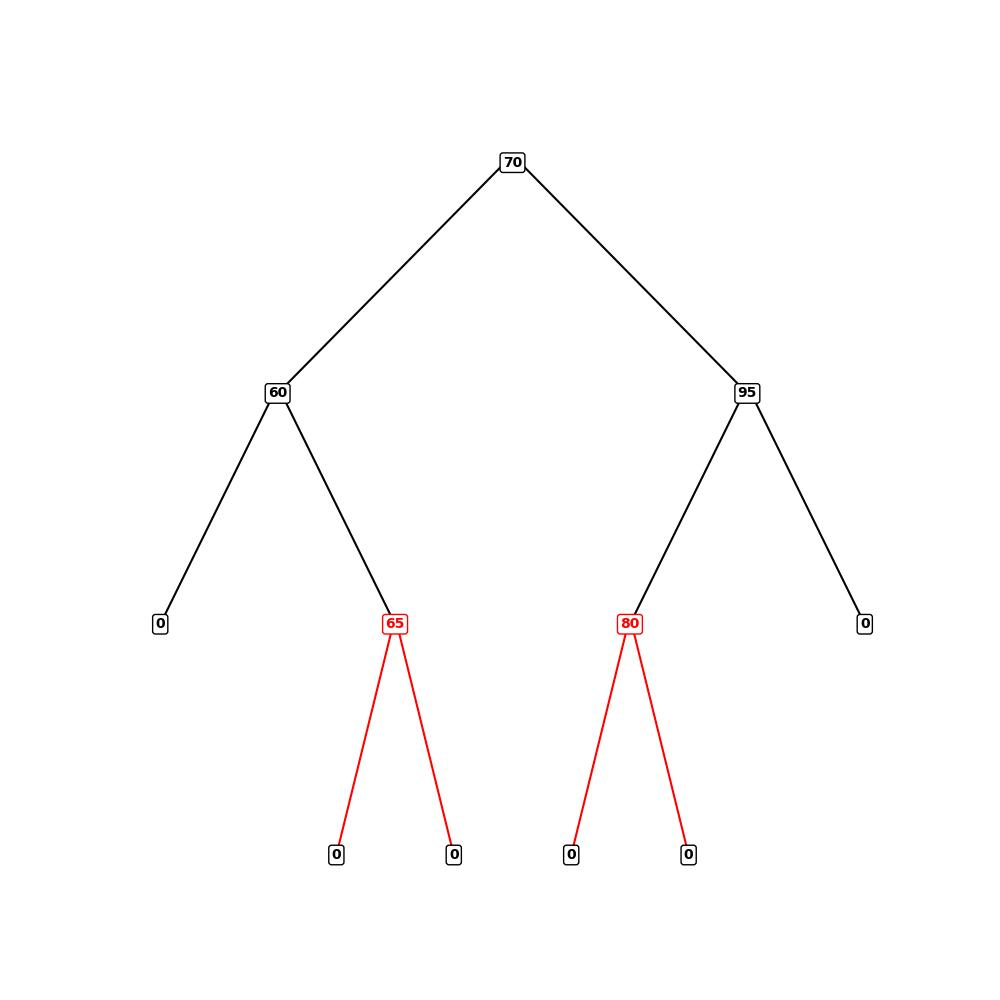
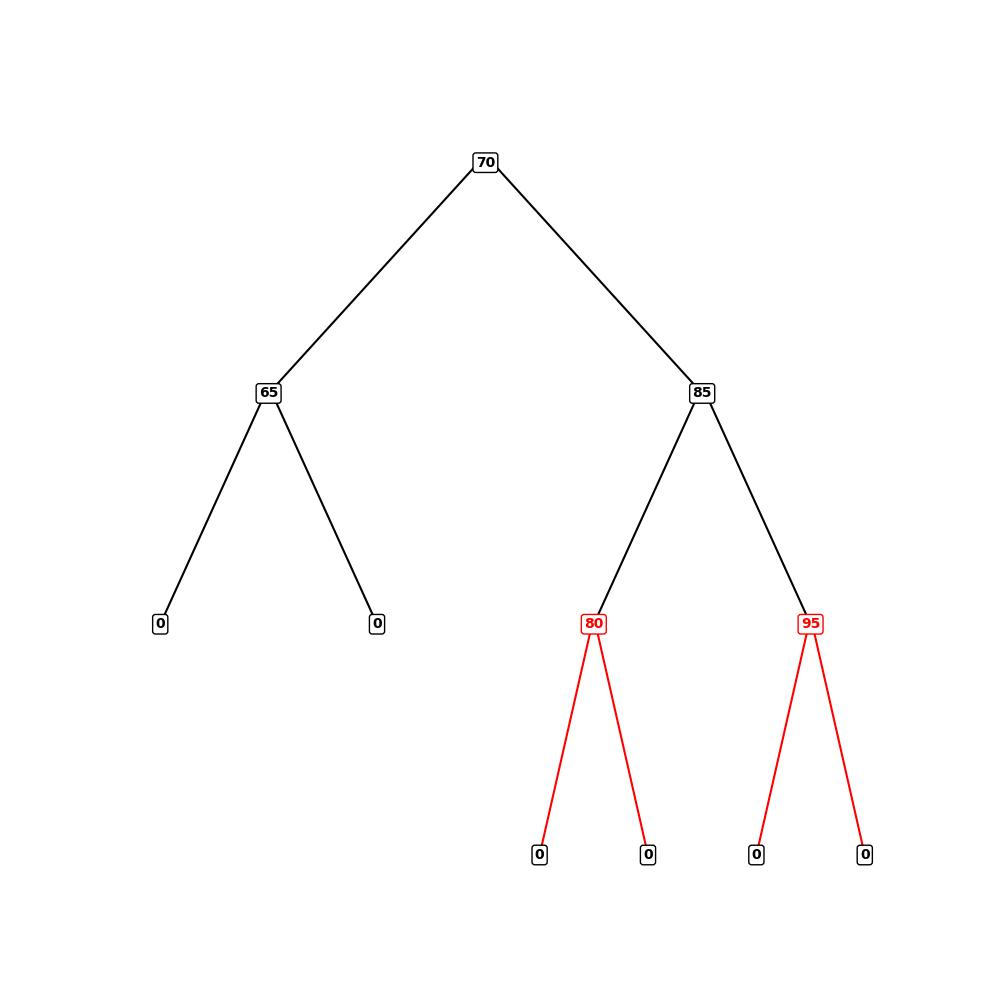
feat: add saving pic

diff --git a/app.py b/app.py
@@ -14,7 +14,7 @@ if __name__ == "__main__":
     dx = 50  # горизонтальное расстояние между узлами
     dy = 1  # вертикальное расстояние между уровнями
 
-    draw_tree(bst.root, 0, 0, dx)
+    draw_tree(bst.root, 0, 0, dx, "before_remove_graph.jpg")
     print("\nAfter deleting an element")
     bst.delete_node(60)
-    draw_tree(bst.root, 0, 0, dx)
+    draw_tree(bst.root, 0, 0, dx, "after_remove_graph.jpg")

diff --git a/visualize.py b/visualize.py
@@ -21,9 +21,10 @@ def render_red_black_tree(node, x, y, dx):
         render_red_black_tree(node.right, x + dx, y - dy, dx/2)
 
 
-def draw_tree(node, x, y, dx):
+def draw_tree(node, x, y, dx, pic_name):
     plt.figure(figsize=(10, 10))
     plt.axis('off')
     render_red_black_tree(node, x, y, dx)
+    plt.savefig(pic_name)
     plt.show()
 
